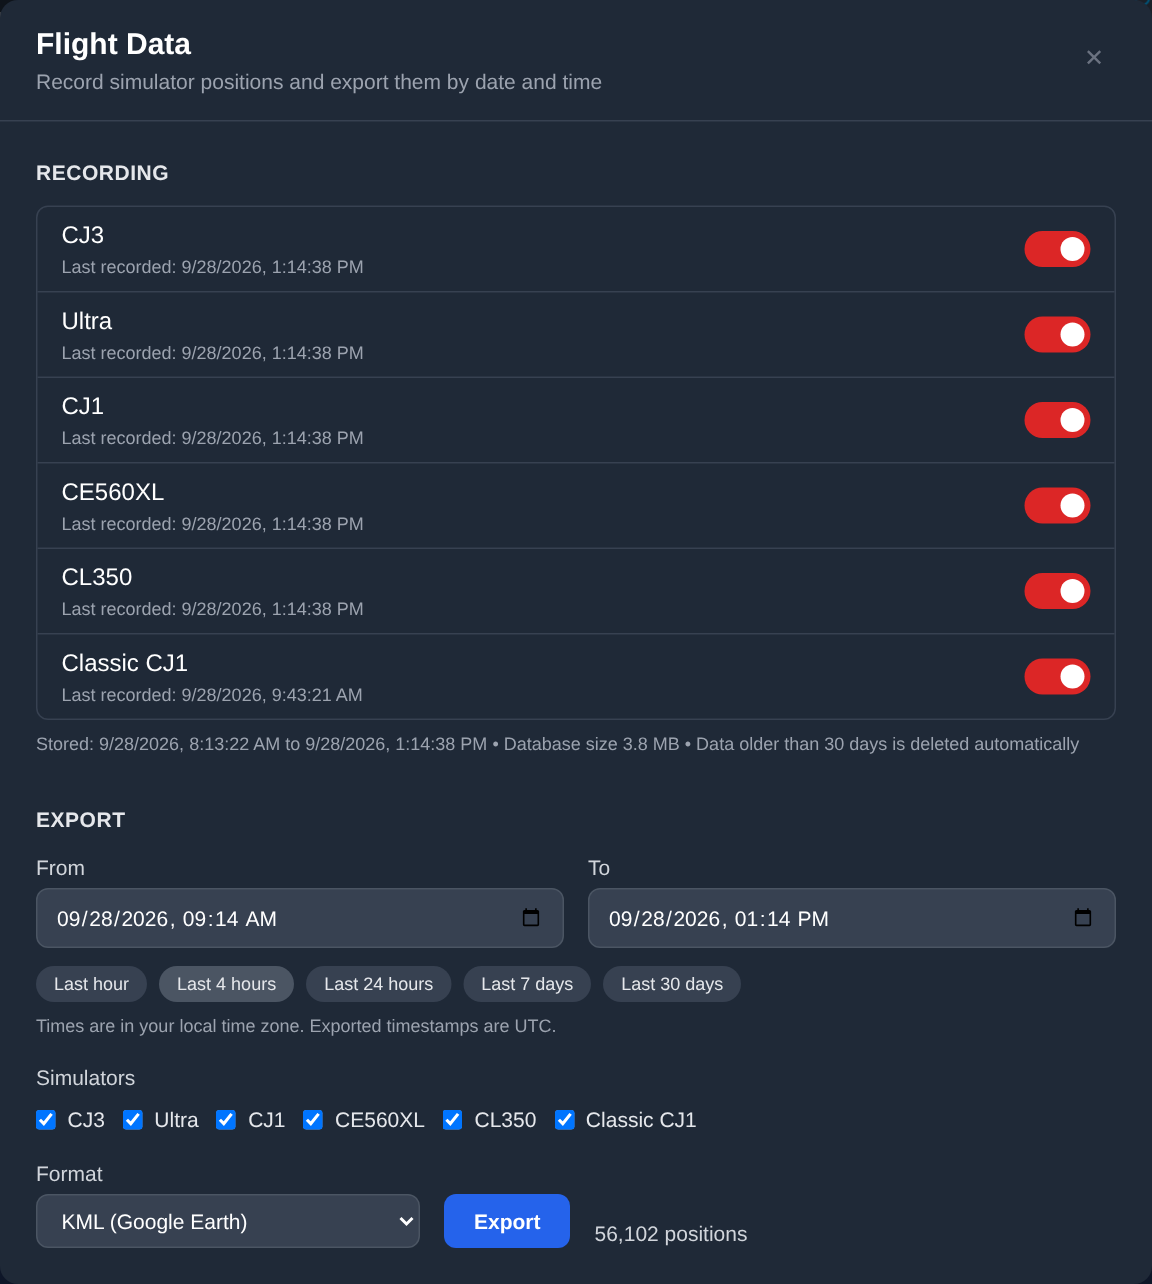
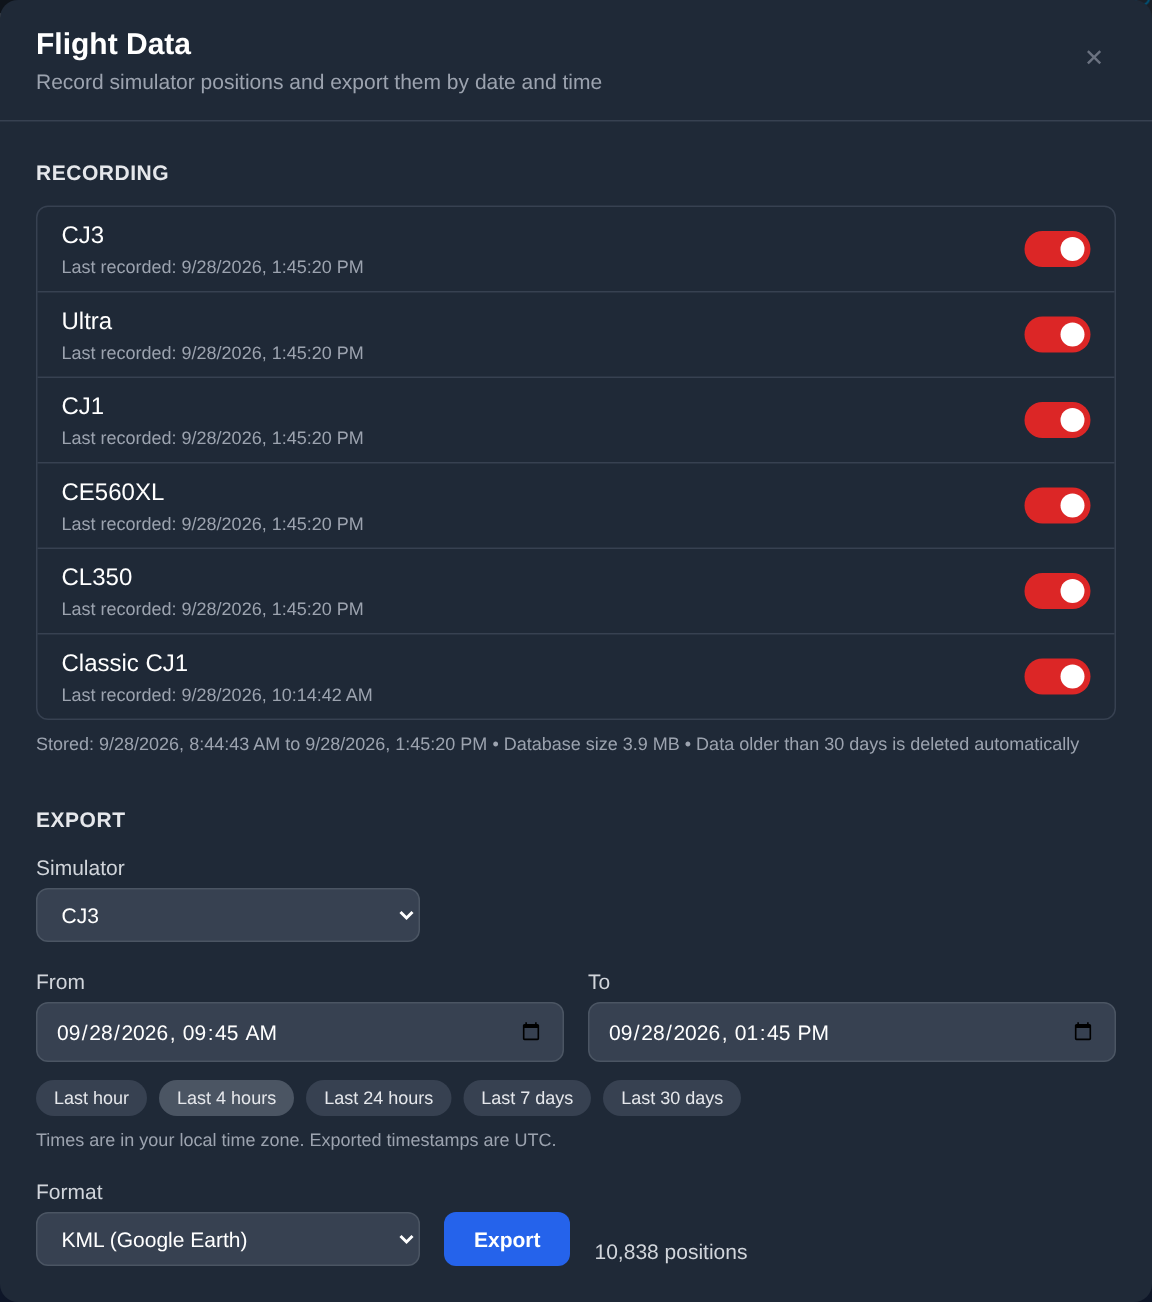
Update Flight Data docs for single-sim export and retake screenshots
Screenshots now show the switch-tracking dashboard (new header, book
icon, Switch step in the health chain) with recording enabled.

Claude-Session: https://claude.ai/code/session_01HfNUiSktvhQxPBSUhRtmcd

diff --git a/docs/dashboard-manual/flight-data.md b/docs/dashboard-manual/flight-data.md
@@ -42,10 +42,12 @@ Below the switches the panel shows the time span currently stored, the database 
 
 ### Export
 
-1. Pick a **From** and **To** date/time, or click a preset (last hour, 4 hours, 24 hours, 7 days, 30 days). Times are entered in your browser's local time zone; the **To** minute is included in full.
-2. Tick the simulators to include.
+Exports are one simulator at a time, since they're normally used to map an individual flight.
+
+1. Pick the **Simulator**.
+2. Pick a **From** and **To** date/time, or click a preset (last hour, 4 hours, 24 hours, 7 days, 30 days). Times are entered in your browser's local time zone; the **To** minute is included in full.
 3. Choose a format. The panel shows how many positions the export will contain.
-4. Click **Export** to download the file.
+4. Click **Export** to download the file. It is named after the simulator and start time, e.g. `CJ3_20260928T1645Z.kml`.
 
 Exported timestamps are always UTC (e.g. `2026-04-11T15:30:45.123Z`).
 
@@ -63,7 +65,7 @@ The panel follows the dashboard's light/dark theme:
 | **GPX** | GPS tools, ForeFlight, mapping apps | GPX 1.1, one `<trk>` per simulator. Elevation in meters, speed and heading in each point's `<desc>` |
 | **KML** | Google Earth | One 3D flight path per simulator at absolute altitude (meters) |
 
-Rows are grouped by simulator, then ordered by time.
+Rows are ordered by time. (When the API is asked for several simulators, rows are grouped by simulator first, and GPX/KML get one track per simulator.)
 
 ## Retention
 
@@ -110,7 +112,7 @@ The panel uses these endpoints, which you can also call from scripts. Times are 
 | `GET /api/recording` | Recording switches, stored time span, database size, retention |
 | `PUT /api/recording/{sim}` | Body `{"enabled": true\|false}` - switch recording for one simulator |
 | `GET /api/recording/count?start=&end=&sims=` | Number of positions in a range |
-| `GET /api/recording/export?start=&end=&format=&sims=` | Download a range. `format` is `csv`, `json`, `xml`, `gpx` or `kml`; `sims` is an optional comma-separated list (all simulators when omitted) |
+| `GET /api/recording/export?start=&end=&format=&sims=` | Download a range. `format` is `csv`, `json`, `xml`, `gpx` or `kml`; `sims` is a simulator name, or a comma-separated list for scripts (all simulators when omitted). A single-simulator export is named `<sim>_<start>.<ext>`, otherwise `flight_data_<start>.<ext>` |
 
 Example:
 
